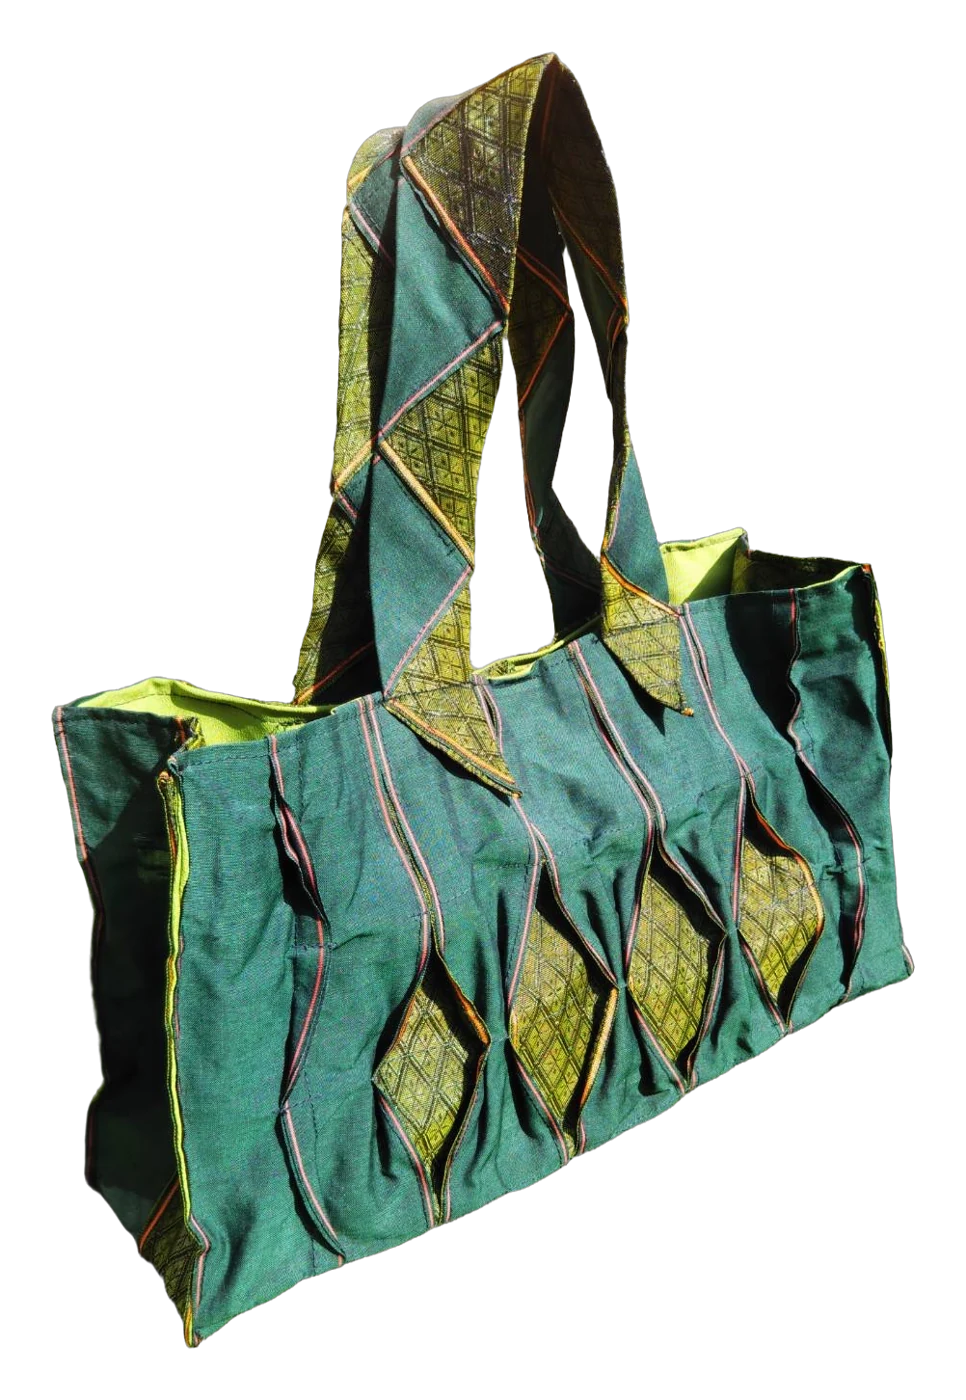
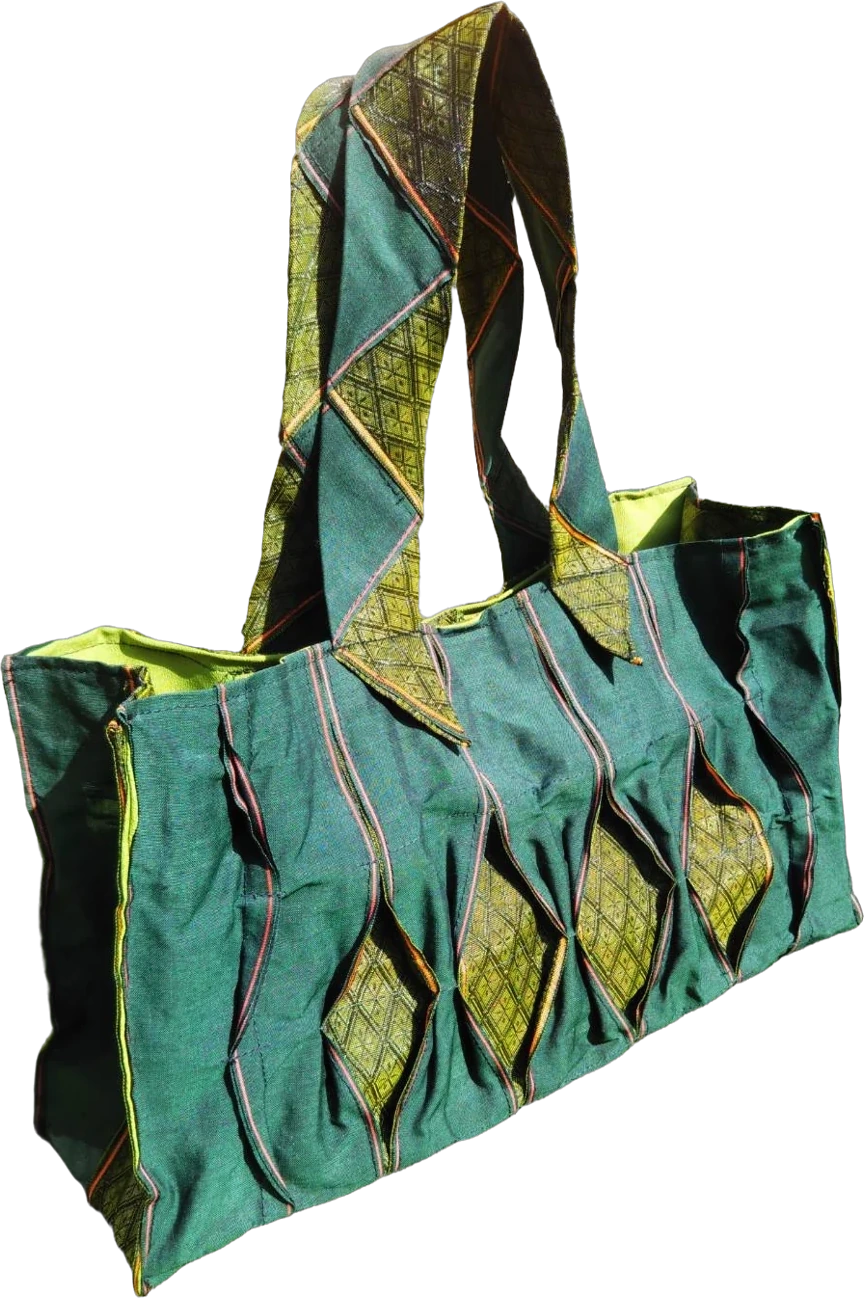
fix(images): カットアウトの透明余白を落として像を棚板に着ける
接地が罫になった時点で、九枚の余白が不揃いなのが露出した。枠は canvas の
寸法（cutoutAspect）で決まるので、余白はそのまま「板から浮く」「中心から
ずれる」になる。Musubi は 67px 浮き（上下に 300px 前後の余白）、Ai は台の
中心から 13% 左にいた（右に 344px）。

- 九枚とも alpha の外接矩形（2% しきい値）で切り直し
- 見た目の大きさが変わらないよう cutoutScale を同じ比率で補正
- prepare-images.py の 4% パディングを外し、trim_box() を追加。影は CSS の
  drop-shadow、浮遊は transform で、どちらも要素の外へ描けるので逃げは不要

結果、九点とも像の裾が棚板と 1px（板の厚み）で一致する。

diff --git a/data/products.ts b/data/products.ts
@@ -40,7 +40,13 @@ export type Product = {
   /** 一覧の浮遊表示でカットアウトが占める高さの比（背の高い瓶バッグ = 1） */
   cutoutScale: number;
   /** cutout.webp の 縦横比 (w/h)。全タイル同寸の展示台に対して像の枠を決めるのに使う。
-   *  値は scripts/prepare-images.py の出力から取る（写真を撮り直したら更新すること）。 */
+   *  値は scripts/prepare-images.py の出力から取る（写真を撮り直したら更新すること）。
+   *
+   *  **cutout.webp に透明の余白を残さないこと。** 枠は canvas の寸法で決まるので、
+   *  余白があるとその分だけ像が棚板から浮き、左右にも寄る。2026-09-16 時点の九枚は
+   *  余白が不揃いで（musubi は上下に 300px 前後、ai は右に 344px）、Musubi が板から
+   *  67px 浮き、Ai が台の中心から 13% 左にずれていた。光だまりの頃は見えなかったが、
+   *  接地が罫になった時点で全部露出した。 */
   cutoutAspect: number;
 };
 
@@ -90,8 +96,8 @@ export const products: Product[] = [
     weightG: null,
     tags: ["Gift", "Interior", "Formal"],
     galleryCount: 5,
-    cutoutScale: 1,
-    cutoutAspect: 0.352,   // 493×1400
+    cutoutScale: 0.926,
+    cutoutAspect: 0.301,   // 390×1297
   },
   {
     slug: "ai-indigo",
@@ -114,8 +120,8 @@ export const products: Product[] = [
     weightG: null,
     tags: ["Gift", "Formal", "Daily Bag"],
     galleryCount: 5,
-    cutoutScale: 0.9,
-    cutoutAspect: 0.559,   // 782×1400
+    cutoutScale: 0.832,
+    cutoutAspect: 0.294,   // 380×1294
   },
   {
     slug: "matsu-pine",
@@ -138,8 +144,8 @@ export const products: Product[] = [
     weightG: null,
     tags: ["Daily Bag", "Gift"],
     galleryCount: 5,
-    cutoutScale: 0.88,
-    cutoutAspect: 0.569,   // 797×1400
+    cutoutScale: 0.767,
+    cutoutAspect: 0.345,   // 421×1220
   },
   {
     slug: "wakaba-celadon",
@@ -162,8 +168,8 @@ export const products: Product[] = [
     weightG: null,
     tags: ["Daily Bag", "Interior"],
     galleryCount: 4,
-    cutoutScale: 1,
-    cutoutAspect: 0.377,   // 382×1012
+    cutoutScale: 0.927,
+    cutoutAspect: 0.328,   // 308×938
   },
   {
     slug: "kasane-silk",
@@ -186,8 +192,8 @@ export const products: Product[] = [
     weightG: null,
     tags: ["Daily Bag", "Formal"],
     galleryCount: 2,
-    cutoutScale: 0.92,
-    cutoutAspect: 0.546,   // 765×1400
+    cutoutScale: 0.838,
+    cutoutAspect: 0.467,   // 596×1275
   },
   {
     slug: "musubi-obi",
@@ -210,8 +216,8 @@ export const products: Product[] = [
     weightG: null,
     tags: ["Formal", "Gift"],
     galleryCount: 2,
-    cutoutScale: 0.76,
-    cutoutAspect: 0.769,   // 1076×1400
+    cutoutScale: 0.428,
+    cutoutAspect: 1.236,   // 974×788
   },
   {
     slug: "hisui-jade",
@@ -234,8 +240,8 @@ export const products: Product[] = [
     weightG: null,
     tags: ["Daily Bag", "Interior"],
     galleryCount: 1,
-    cutoutScale: 0.78,
-    cutoutAspect: 0.69,   // 966×1400
+    cutoutScale: 0.723,
+    cutoutAspect: 0.666,   // 864×1298
   },
   {
     slug: "ichimatsu-check",
@@ -258,8 +264,8 @@ export const products: Product[] = [
     weightG: null,
     tags: ["Daily Bag"],
     galleryCount: 1,
-    cutoutScale: 0.66,
-    cutoutAspect: 1.03,   // 1178×1144
+    cutoutScale: 0.61,
+    cutoutAspect: 1.032,   // 1092×1058
   },
   {
     slug: "tsugi-autumn",
@@ -282,8 +288,8 @@ export const products: Product[] = [
     weightG: null,
     tags: ["Interior", "Formal"],
     galleryCount: 1,
-    cutoutScale: 0.78,
-    cutoutAspect: 0.683,   // 742×1086
+    cutoutScale: 0.723,
+    cutoutAspect: 0.658,   // 662×1006
   },
 ];
 

diff --git a/scripts/prepare-images.py b/scripts/prepare-images.py
@@ -118,18 +118,31 @@ def clean_alpha(rgba: Image.Image, thresh: int = 60) -> Image.Image:
 def cutout(im: Image.Image, session) -> Image.Image:
     from rembg import remove
 
-    # 推論は縮小画像で十分。1600px に落として処理し、透明部分をトリムして余白を足す。
+    # 推論は縮小画像で十分。1600px に落として処理し、透明部分を残さず切る。
+    #
+    # **余白を足さないこと。** 画面側の枠は canvas の寸法（cutoutAspect）で決まるので、
+    # 透明の余白はそのまま「像が棚板から浮く」「台の中心からずれる」に化ける。以前は
+    # 影と浮遊アニメの逃げとして 4% 足していたが、影は CSS の drop-shadow、浮遊は
+    # transform で、どちらも要素の外に描けるので逃げは要らない。2026-09-16 に九枚とも
+    # 切り直した（musubi は上下に 300px 前後、ai は右に 344px 残っていた）。
+    #
+    # しきい値は 2%。これ未満の画素は黒地では見えないので、そこで切ってよい。
     base = fit(im, 1600)
     rgba = clean_alpha(remove(base, session=session, alpha_matting=False))
-    bbox = rgba.getchannel("A").getbbox()
-    if bbox:
-        rgba = rgba.crop(bbox)
-    # 上下左右に 4% の余白（影・浮遊アニメの逃げ）
-    pad = int(max(rgba.size) * 0.04)
-    canvas = Image.new("RGBA", (rgba.width + pad * 2, rgba.height + pad * 2), (0, 0, 0, 0))
-    canvas.paste(rgba, (pad, pad), rgba)
-    canvas.thumbnail((1400, 1400), Image.LANCZOS)
-    return canvas
+    rgba = rgba.crop(trim_box(rgba, thresh=6))
+    rgba.thumbnail((1400, 1400), Image.LANCZOS)
+    return rgba
+
+
+def trim_box(rgba: Image.Image, thresh: int = 6) -> tuple[int, int, int, int]:
+    """不透明な画素だけの外接矩形。`getbbox()` は alpha > 0 なので、消し残りの
+    ごく薄い画素まで拾って枠が広がる。"""
+    import numpy as np
+
+    ys, xs = np.where(np.array(rgba.getchannel("A")) >= thresh)
+    if not len(xs):
+        return (0, 0, rgba.width, rgba.height)
+    return (int(xs.min()), int(ys.min()), int(xs.max()) + 1, int(ys.max()) + 1)
 
 
 def main(skip_cutout: bool, only: str | None = None, product: str | None = None) -> None:
